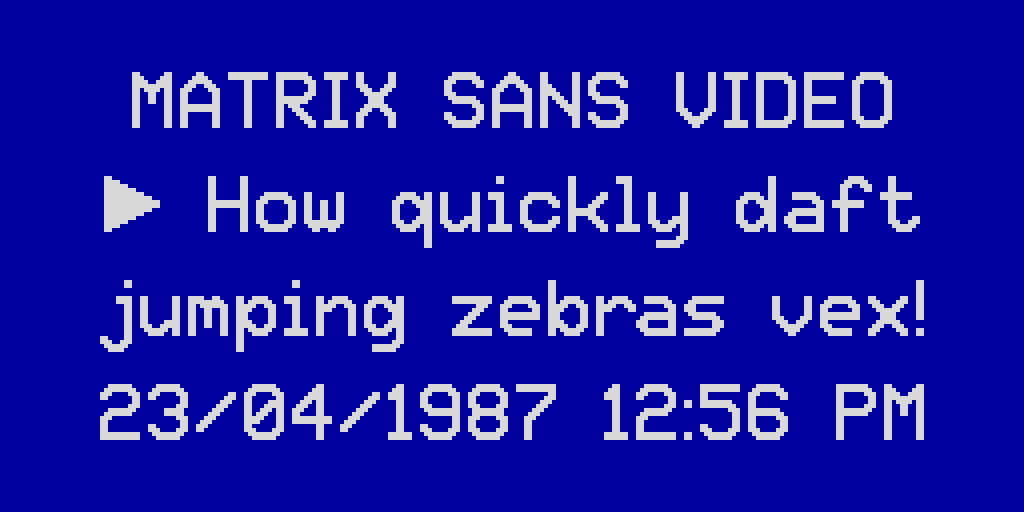
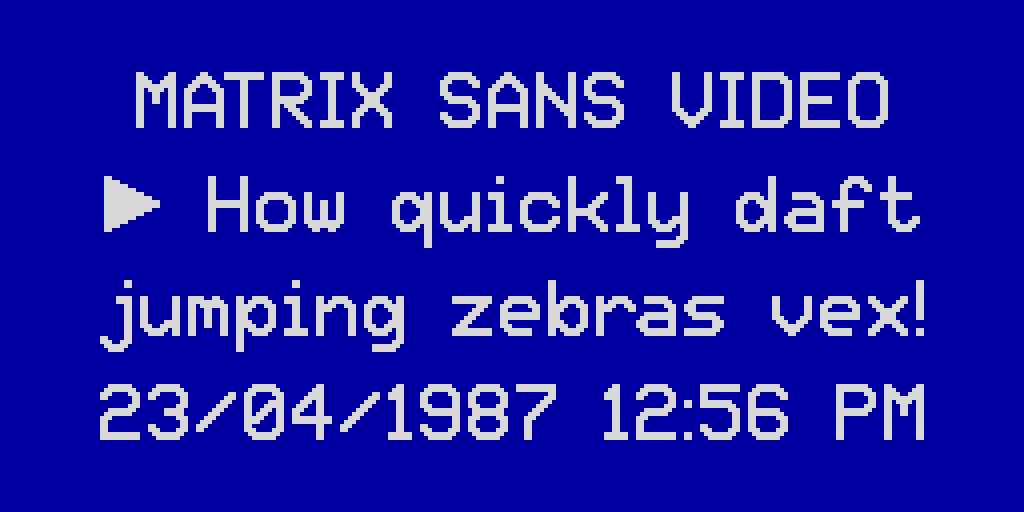
Re-generate sample images with correct fonts

Changed region(s): [[0.125, 0.125, 0.625, 0.25], [0.6562, 0.125, 0.875, 0.25]]

diff --git a/scripts/image3.py b/scripts/image3.py
@@ -18,7 +18,7 @@ import argparse
 DRAW_AUX_TEXT = False
 
 WIDTH, HEIGHT, MARGIN, FRAMES = 1024, 512, 32, 1
-FONT_PATH = "fonts/otf/MatrixSans-Regular.otf"
+FONT_PATH = "fonts/ttf/MatrixSans-Regular.ttf"
 FONT_LICENSE = "Open Font License v1.1"
 AUXILIARY_FONT = "Bahnschrift"
 AUXILIARY_FONT_SIZE = 22
@@ -156,17 +156,17 @@ def make_image(text_list, text_colour, bg_colour, stripes=False):
 
 # Build and save the image
 if __name__ == "__main__":
-	FONT_PATH = "fonts/otf/MatrixSans-Regular.otf"
+	FONT_PATH = "fonts/ttf/MatrixSans-Regular.ttf"
 	make_image(["MATRIX SANS REGULAR","The quick brown fox","jumps over a lazy dog.","§27 ¶14; { 35°29′10″ }"], [0.1, 0.1, 0.1], [0.9, 0.9, 0.9])
-	FONT_PATH = "fonts/otf/MatrixSansPrint-Regular.otf"
+	FONT_PATH = "fonts/ttf/MatrixSansPrint-Regular.ttf"
 	make_image(["MATRIX SANS PRINT","Quick wafting zephyrs","#vex “bold” @Jim :-)","$18.99 €38,76 £1.50 75%"], [0, 0, 0], [0.99, 0.97, 0.95], True)
-	FONT_PATH = "fonts/otf/MatrixSansRaster-Regular.otf"
+	FONT_PATH = "fonts/ttf/MatrixSansRaster-Regular.ttf"
 	make_image(["MATRIX SANS RASTER","Pack my box with five","dozen liquor jugs*","150 IF X>32 THEN N=0"], [1, 0.6, 0], [0, 0, 0])
-	FONT_PATH = "fonts/otf/MatrixSansScreen-Regular.otf"
+	FONT_PATH = "fonts/ttf/MatrixSansScreen-Regular.ttf"
 	make_image(["MATRIX SANS SCREEN","Jackdaws love my big","sphinx of quartz?","3×(5+1)²−6÷2=105"], [0, 0, 0], [202/255, 228/255, 175/255])
-	FONT_PATH = "fonts/otf/MatrixSansVideo-Regular.otf"
+	FONT_PATH = "fonts/ttf/MatrixSansVideo-Regular.ttf"
 	make_image(["MATRIX SANS VIDEO","▶ How quickly daft","jumping zebras vex!","23/04/1987 12:56 PM"], [216/255, 216/255, 216/255], [0, 0, 160/255])
-	FONT_PATH = "fonts/otf/MatrixSansSmooth-Regular.otf"
+	FONT_PATH = "fonts/ttf/MatrixSansSmooth-Regular.ttf"
 	make_image(["MATRIX SANS SMOOTH", "Bright vixens jump", "& dozy fowl quack.", "«№3½» ±0.5µm ↑ 68Ω"], [0.9, 0.9, 0.9], [0.1, 0.1, 0.1])
 	# Save output, using the "--output" flag location
 	saveImage(args.output)
